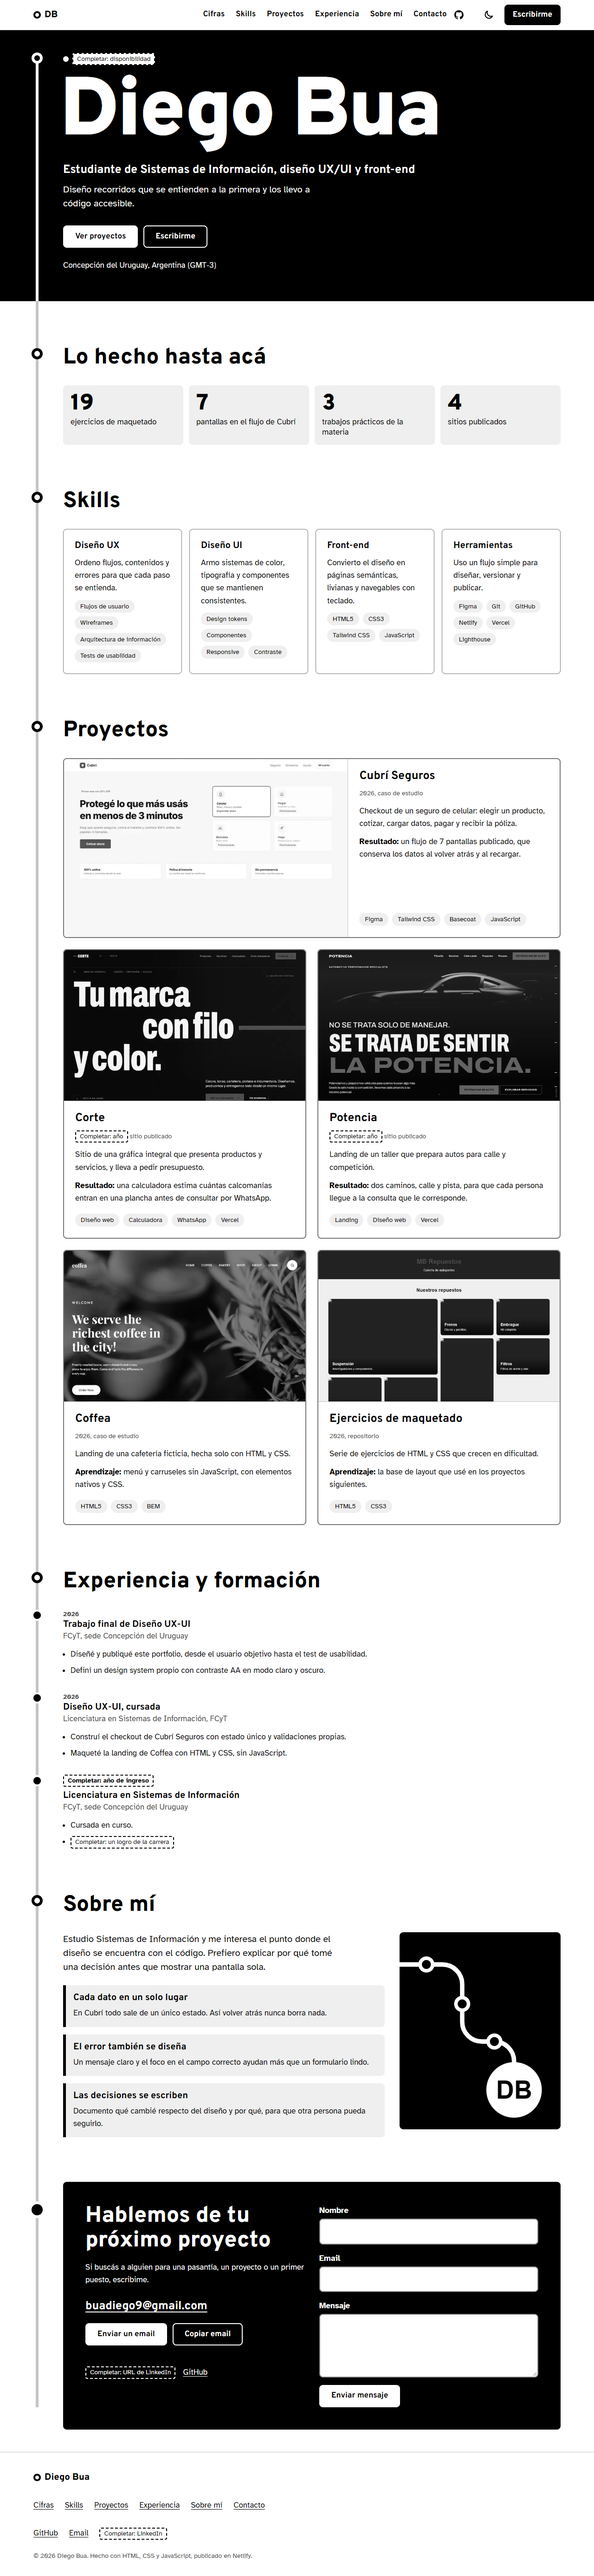
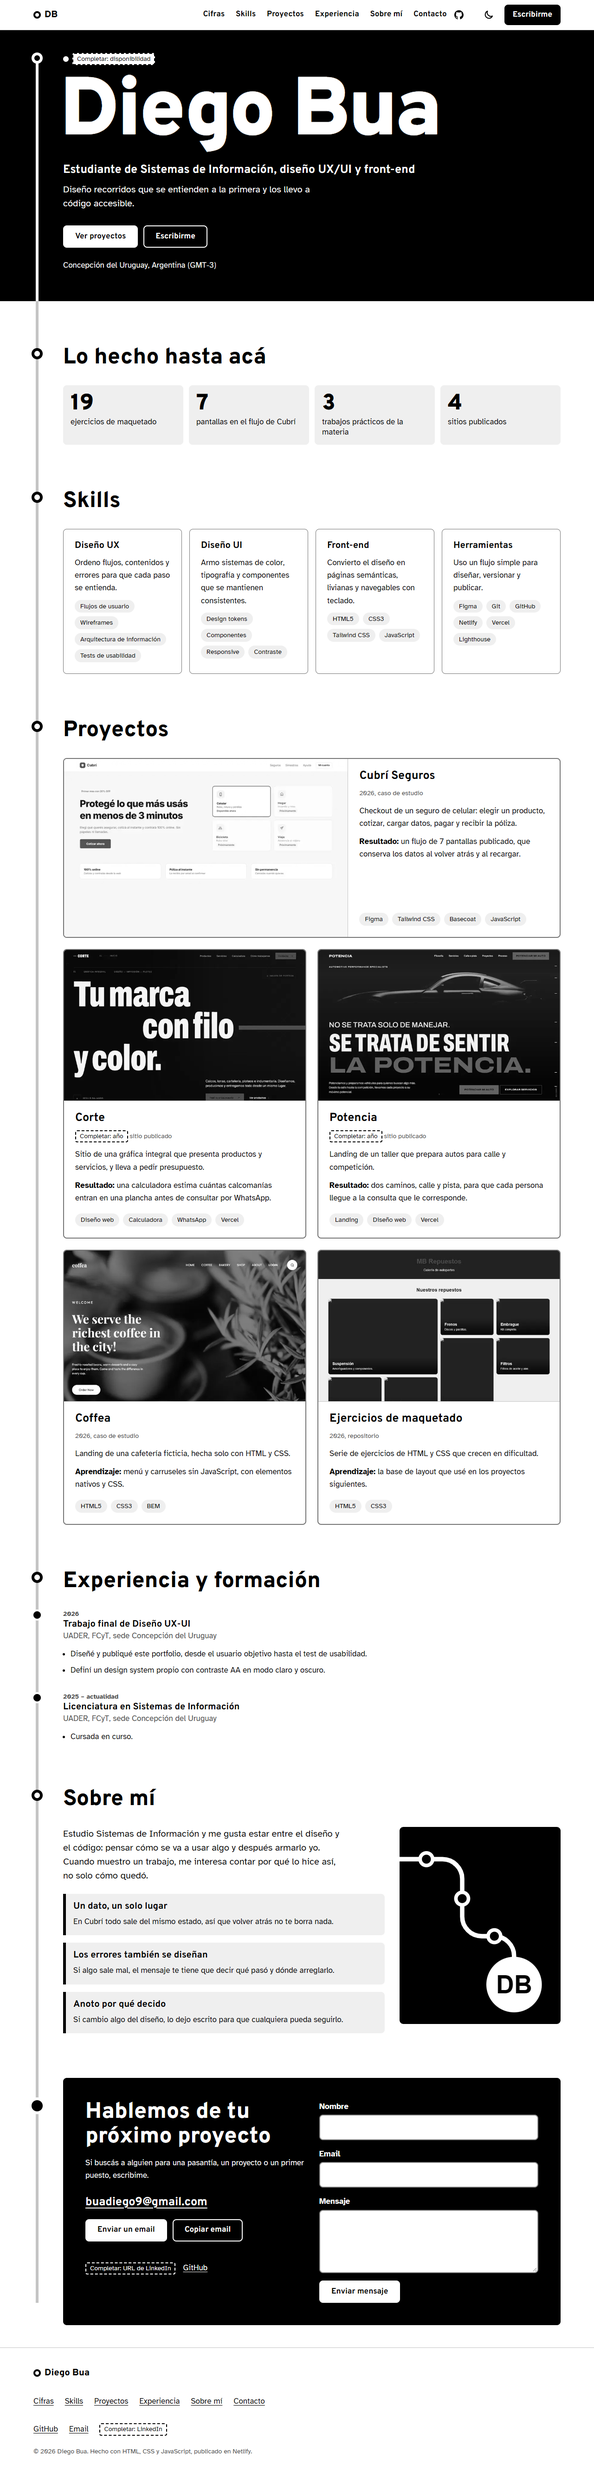
TP Final: timeline con la Licenciatura desde 2025 y sin la cursada de Diseño UX-UI

diff --git a/TP-Final/portfolio/index.html b/TP-Final/portfolio/index.html
@@ -177,28 +177,18 @@
           <li class="timeline__item">
             <p class="timeline__period">2026</p>
             <h3>Trabajo final de Diseño UX-UI</h3>
-            <p class="timeline__place">FCyT, sede Concepción del Uruguay</p>
+            <p class="timeline__place">UADER, FCyT, sede Concepción del Uruguay</p>
             <ul class="timeline__list">
               <li>Diseñé y publiqué este portfolio, desde el usuario objetivo hasta el test de usabilidad.</li>
               <li>Definí un design system propio con contraste AA en modo claro y oscuro.</li>
             </ul>
           </li>
           <li class="timeline__item">
-            <p class="timeline__period">2026</p>
-            <h3>Diseño UX-UI, cursada</h3>
-            <p class="timeline__place">Licenciatura en Sistemas de Información, FCyT</p>
-            <ul class="timeline__list">
-              <li>Construí el checkout de Cubrí Seguros con estado único y validaciones propias.</li>
-              <li>Maqueté la landing de Coffea con HTML y CSS, sin JavaScript.</li>
-            </ul>
-          </li>
-          <li class="timeline__item">
-            <p class="timeline__period"><span class="todo">Completar: año de ingreso</span></p>
+            <p class="timeline__period">2025 – actualidad</p>
             <h3>Licenciatura en Sistemas de Información</h3>
-            <p class="timeline__place">FCyT, sede Concepción del Uruguay</p>
+            <p class="timeline__place">UADER, FCyT, sede Concepción del Uruguay</p>
             <ul class="timeline__list">
               <li>Cursada en curso.</li>
-              <li><span class="todo">Completar: un logro de la carrera</span></li>
             </ul>
           </li>
         </ol>

diff --git a/TP-Final/portfolio/README.md b/TP-Final/portfolio/README.md
@@ -19,7 +19,7 @@ grep -rn "Completar:" --include=*.html .
 
 - [ ] Disponibilidad en el hero.
 - [ ] URL de LinkedIn en contacto y footer.
-- [ ] Año de ingreso y un logro de la carrera en la timeline.
+- [ ] Un segundo logro para el ítem de la Licenciatura, si la consigna lo exige en la corrección.
 - [ ] Año, stack y rol en las tarjetas de Corte y Potencia.
 - [ ] Revisar los textos de "Sobre mí" y la ubicación, escritos a partir de los TP y de la sede de la consigna.
 - [ ] Reemplazar la ilustración por una foto si preferís una foto real.
